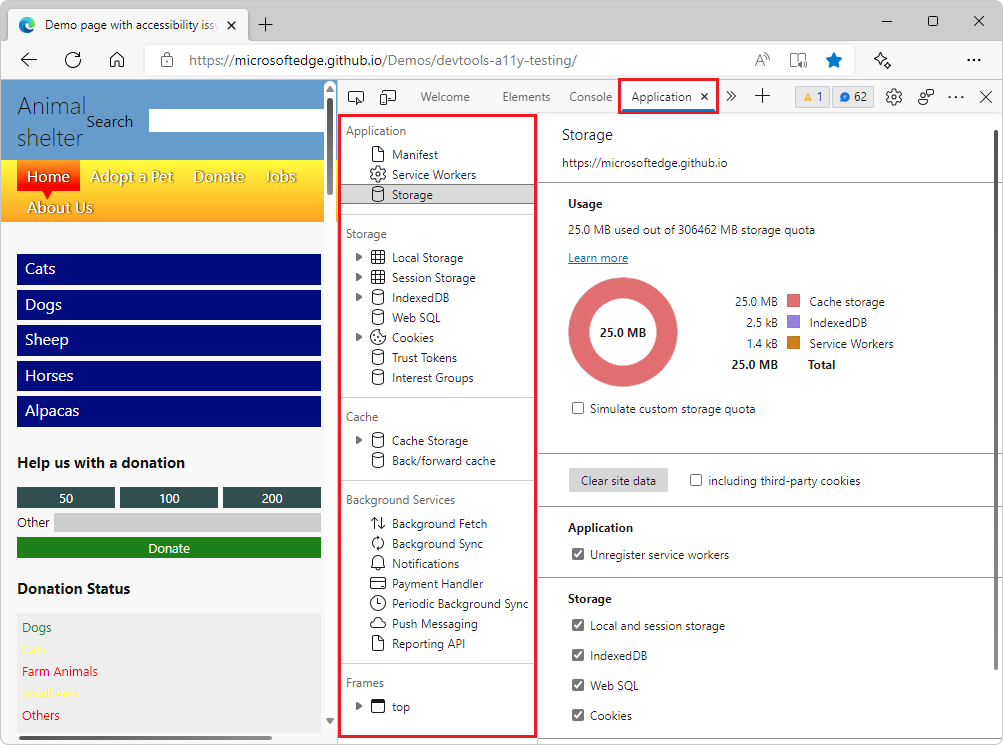
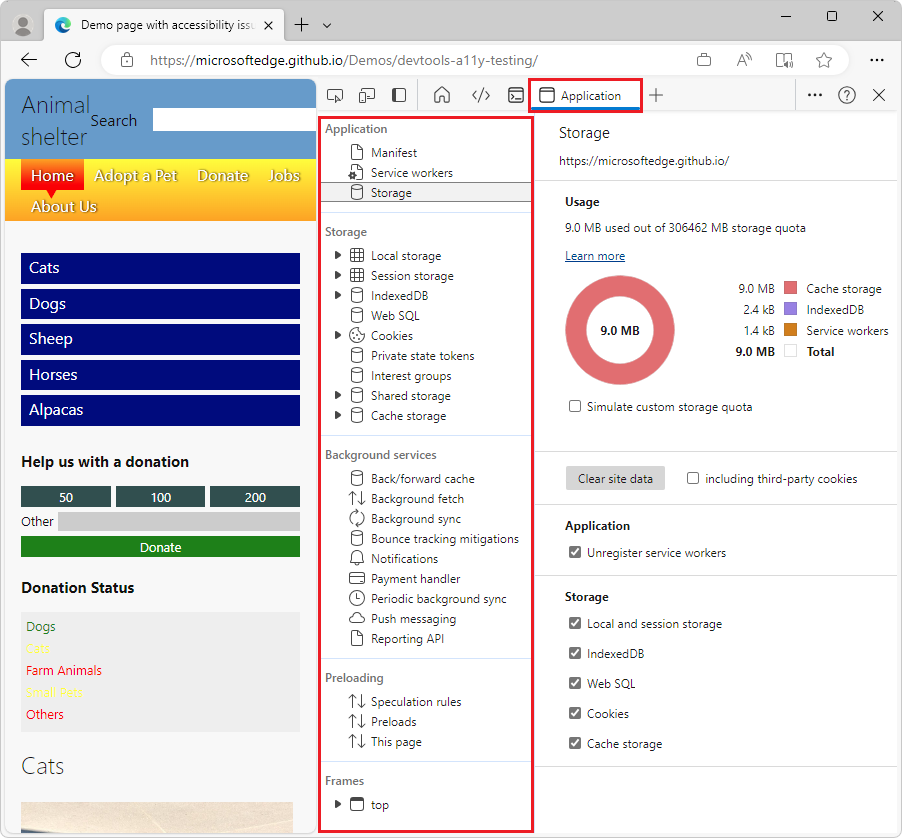
Update text and png

Changed region(s): [[0.0, 0.0, 1.0, 1.0], [0.7761, 0.5557, 0.9623, 0.5866]]

diff --git a/microsoft-edge/devtools-guide-chromium/storage/application-tool.md b/microsoft-edge/devtools-guide-chromium/storage/application-tool.md
@@ -5,7 +5,7 @@ author: MSEdgeTeam
 ms.author: msedgedevrel
 ms.topic: conceptual
 ms.prod: microsoft-edge
-ms.date: 04/15/2022
+ms.date: 10/17/2023
 ---
 # Application tool, to manage storage
 
@@ -13,34 +13,47 @@ Use the **Application** tool to manage storage for web app pages, including mani
 
 ![The Application tool](./application-tool-images/application-tool.png)
 
-The Application tool has the following pages:
+The **Application** tool has the following pages, listed on the left:
 
-*  Application
-   *  Manifest
-   *  Service Workers
-   *  Storage
+* Application
+   * Manifest
+   * Service workers
+   * Storage
 
-*  Storage
-   *  Local Storage
-   *  IndexedDB
-   *  Web SQL
-   *  Cookies
-   *  Trust Tokens
-   *  Interest Groups
+* Storage
+   * Local storage
+   * Session storage
+   * IndexedDB
+   * Web SQL
+   * Cookies
+   * Private state tokens
+   * Interest groups
+   * Shared storage
+   * Cache storage
 
-*  Cache
-   *  Cache Storage
-   *  Back/forward cache
+* Background services
+   * Back/forward cache
+   * Background fetch
+   * Background sync
+   * Bounce tracking mitigations
+   * Notifications
+   * Payment handler
+   * Periodic background sync
+   * Push messaging
+   * Reporting API
 
-*  Background Services
-   *  Background Fetch
-   *  Background Sync
-   *  Notifications
-   *  Payment Handler
-   *  Periodic Background Sync
-   *  Push Messaging
-   *  Reporting API
+* Preloading
+   * Speculation rules
+   * Preloads
+   * This page
 
-*  Frames 
+* Frames 
+   * top
 
-Note: to accurately interpret the **Storage Usage** chart in the **Application** tool, see the [Quota usage](../progressive-web-apps/index.md#quota-usage) section of the Debug Progressive Web Apps article.
+To accurately interpret the **Storage Usage** chart in the **Application** tool, see [Quota usage](../progressive-web-apps/index.md#quota-usage) in _Debug Progressive Web Apps (PWAs)_.
+
+
+<!-- ====================================================================== -->
+<!--
+## See also
+-->
